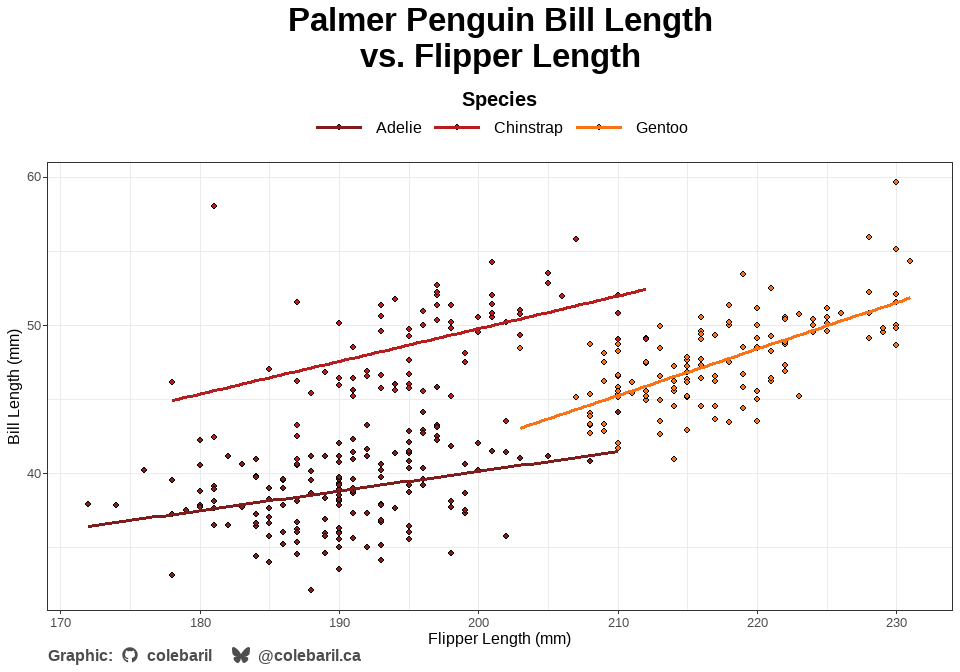
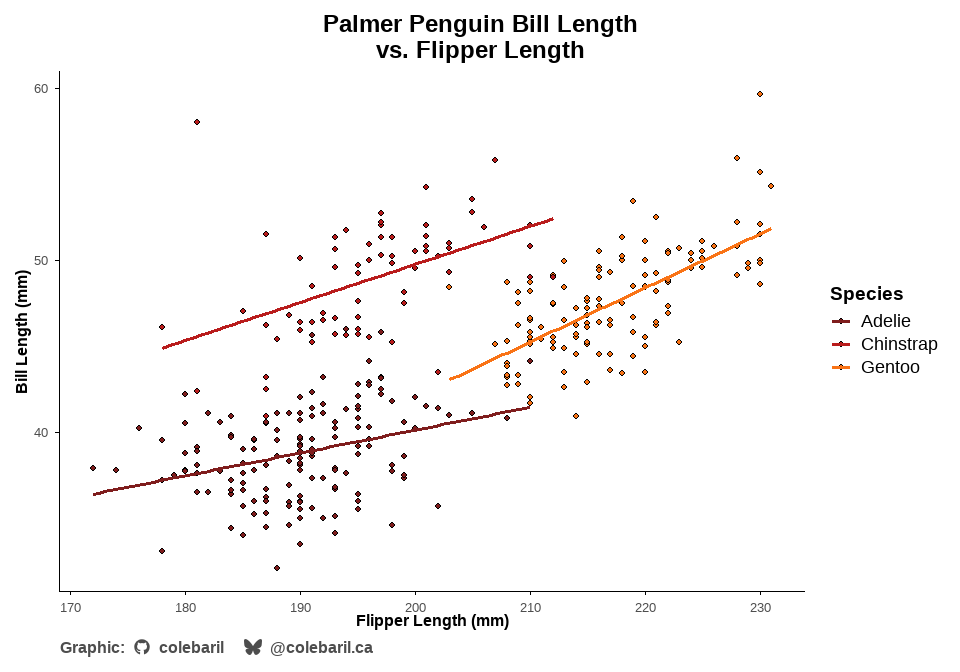
theme_cw

diff --git a/docs/index.html b/docs/index.html
@@ -63,27 +63,37 @@
 <div class="section level3">
 <h3 id="themes-and-palettes">Themes and Palettes<a class="anchor" aria-label="anchor" href="#themes-and-palettes"></a>
 </h3>
-<p>In the following example, <code>theme_parchment()</code> is used to alter thematic elements of the plot and <code>scale_spellbook()</code> is used to apply my custom colour palettes. I also use the <code><a href="reference/add_caption_cwb.html">add_caption_cwb()</a></code> function to automatically insert a caption that is pre-formatted with icons and social media tags.</p>
+<p>In the following example, <code><a href="reference/theme_cole.html">theme_cole()</a></code> is used to alter thematic elements of the plot and <code>scale_spellbook()</code> is used to apply my custom colour palettes. I also use the <code><a href="reference/add_caption_cwb.html">add_caption_cwb()</a></code> function to automatically insert a caption that is pre-formatted with icons and social media tags. You can easily flip to dark mode!</p>
 <div class="sourceCode" id="cb2"><pre class="downlit sourceCode r">
 <code class="sourceCode R"><span><span class="kw"><a href="https://rdrr.io/r/base/library.html" class="external-link">require</a></span><span class="op">(</span><span class="va"><a href="https://github.com/trinker/pacman" class="external-link">pacman</a></span><span class="op">)</span></span>
-<span><span class="fu"><a href="https://rdrr.io/pkg/pacman/man/p_load.html" class="external-link">p_load</a></span><span class="op">(</span><span class="va">cwb</span>, <span class="va">ggplot2</span>, <span class="va">palmerpenguins</span>, <span class="va">extrafont</span><span class="op">)</span></span>
-<span></span>
+<span><span class="fu"><a href="https://rdrr.io/pkg/pacman/man/p_load.html" class="external-link">p_load</a></span><span class="op">(</span><span class="va">cwb</span>, <span class="va">ggplot2</span>, <span class="va">palmerpenguins</span><span class="op">)</span></span>
 <span></span>
 <span><span class="fu"><a href="https://ggplot2.tidyverse.org/reference/ggplot.html" class="external-link">ggplot</a></span><span class="op">(</span><span class="va">penguins</span>, <span class="fu"><a href="https://ggplot2.tidyverse.org/reference/aes.html" class="external-link">aes</a></span><span class="op">(</span><span class="va">flipper_length_mm</span>, <span class="va">bill_length_mm</span>, fill <span class="op">=</span> <span class="va">species</span>, group <span class="op">=</span> <span class="va">species</span><span class="op">)</span><span class="op">)</span> <span class="op">+</span></span>
 <span>  <span class="fu"><a href="https://ggplot2.tidyverse.org/reference/geom_point.html" class="external-link">geom_point</a></span><span class="op">(</span>shape <span class="op">=</span> <span class="fl">21</span><span class="op">)</span> <span class="op">+</span></span>
 <span>  <span class="fu"><a href="https://ggplot2.tidyverse.org/reference/geom_smooth.html" class="external-link">geom_smooth</a></span><span class="op">(</span><span class="fu"><a href="https://ggplot2.tidyverse.org/reference/aes.html" class="external-link">aes</a></span><span class="op">(</span>colour <span class="op">=</span> <span class="va">species</span><span class="op">)</span>, se <span class="op">=</span> <span class="cn">FALSE</span>, method <span class="op">=</span> <span class="st">"lm"</span><span class="op">)</span> <span class="op">+</span></span>
 <span>  <span class="fu"><a href="reference/scale_cwb.html">scale_cwb</a></span><span class="op">(</span>name <span class="op">=</span> <span class="st">"Species"</span>, palette <span class="op">=</span> <span class="st">"arcane_flame"</span>, type <span class="op">=</span> <span class="st">"d"</span>, aesthetics <span class="op">=</span> <span class="st">"fill"</span><span class="op">)</span> <span class="op">+</span></span>
 <span>  <span class="fu"><a href="reference/scale_cwb.html">scale_cwb</a></span><span class="op">(</span>name <span class="op">=</span> <span class="st">"Species"</span>, palette <span class="op">=</span> <span class="st">"arcane_flame"</span>, type <span class="op">=</span> <span class="st">"d"</span>, aesthetics <span class="op">=</span> <span class="st">"colour"</span><span class="op">)</span> <span class="op">+</span></span>
-<span>  <span class="fu">theme_parchment</span><span class="op">(</span><span class="op">)</span> <span class="op">+</span></span>
+<span>  <span class="fu"><a href="reference/theme_cole.html">theme_cole</a></span><span class="op">(</span>show_axis_lines <span class="op">=</span> <span class="fu"><a href="https://rdrr.io/r/base/c.html" class="external-link">c</a></span><span class="op">(</span><span class="st">"bottom"</span>, <span class="st">"left"</span><span class="op">)</span>, remove_grid <span class="op">=</span> <span class="cn">TRUE</span><span class="op">)</span> <span class="op">+</span></span>
 <span>  <span class="fu"><a href="https://ggplot2.tidyverse.org/reference/labs.html" class="external-link">labs</a></span><span class="op">(</span>title <span class="op">=</span> <span class="st">"Palmer Penguin Bill Length \nvs. Flipper Length"</span>, x <span class="op">=</span> <span class="st">"Flipper Length (mm)"</span>, y <span class="op">=</span> <span class="st">"Bill Length (mm)"</span><span class="op">)</span> <span class="op">+</span></span>
 <span>  <span class="fu"><a href="reference/add_caption_cwb.html">add_caption_cwb</a></span><span class="op">(</span>type <span class="op">=</span> <span class="st">"plot"</span><span class="op">)</span> </span></code></pre></div>
 <p><img src="reference/figures/README-example_theme_palette-1.png" alt="" width="100%"></p>
+<div class="sourceCode" id="cb3"><pre class="downlit sourceCode r">
+<code class="sourceCode R"><span></span>
+<span><span class="fu"><a href="https://ggplot2.tidyverse.org/reference/ggplot.html" class="external-link">ggplot</a></span><span class="op">(</span><span class="va">penguins</span>, <span class="fu"><a href="https://ggplot2.tidyverse.org/reference/aes.html" class="external-link">aes</a></span><span class="op">(</span><span class="va">flipper_length_mm</span>, <span class="va">bill_length_mm</span>, fill <span class="op">=</span> <span class="va">species</span>, group <span class="op">=</span> <span class="va">species</span><span class="op">)</span><span class="op">)</span> <span class="op">+</span></span>
+<span>  <span class="fu"><a href="https://ggplot2.tidyverse.org/reference/geom_point.html" class="external-link">geom_point</a></span><span class="op">(</span>shape <span class="op">=</span> <span class="fl">21</span><span class="op">)</span> <span class="op">+</span></span>
+<span>  <span class="fu"><a href="https://ggplot2.tidyverse.org/reference/geom_smooth.html" class="external-link">geom_smooth</a></span><span class="op">(</span><span class="fu"><a href="https://ggplot2.tidyverse.org/reference/aes.html" class="external-link">aes</a></span><span class="op">(</span>colour <span class="op">=</span> <span class="va">species</span><span class="op">)</span>, se <span class="op">=</span> <span class="cn">FALSE</span>, method <span class="op">=</span> <span class="st">"lm"</span><span class="op">)</span> <span class="op">+</span></span>
+<span>  <span class="fu"><a href="reference/scale_cwb.html">scale_cwb</a></span><span class="op">(</span>name <span class="op">=</span> <span class="st">"Species"</span>, palette <span class="op">=</span> <span class="st">"arcane_flame"</span>, type <span class="op">=</span> <span class="st">"d"</span>, aesthetics <span class="op">=</span> <span class="st">"fill"</span><span class="op">)</span> <span class="op">+</span></span>
+<span>  <span class="fu"><a href="reference/scale_cwb.html">scale_cwb</a></span><span class="op">(</span>name <span class="op">=</span> <span class="st">"Species"</span>, palette <span class="op">=</span> <span class="st">"arcane_flame"</span>, type <span class="op">=</span> <span class="st">"d"</span>, aesthetics <span class="op">=</span> <span class="st">"colour"</span><span class="op">)</span> <span class="op">+</span></span>
+<span>  <span class="fu"><a href="reference/theme_cole.html">theme_cole</a></span><span class="op">(</span>show_axis_lines <span class="op">=</span> <span class="fu"><a href="https://rdrr.io/r/base/c.html" class="external-link">c</a></span><span class="op">(</span><span class="st">"bottom"</span>, <span class="st">"left"</span><span class="op">)</span>, remove_grid <span class="op">=</span> <span class="cn">TRUE</span>, dark <span class="op">=</span> <span class="cn">TRUE</span><span class="op">)</span> <span class="op">+</span></span>
+<span>  <span class="fu"><a href="https://ggplot2.tidyverse.org/reference/labs.html" class="external-link">labs</a></span><span class="op">(</span>title <span class="op">=</span> <span class="st">"Palmer Penguin Bill Length \nvs. Flipper Length"</span>, x <span class="op">=</span> <span class="st">"Flipper Length (mm)"</span>, y <span class="op">=</span> <span class="st">"Bill Length (mm)"</span><span class="op">)</span> <span class="op">+</span></span>
+<span>  <span class="fu"><a href="reference/add_caption_cwb.html">add_caption_cwb</a></span><span class="op">(</span>type <span class="op">=</span> <span class="st">"plot"</span><span class="op">)</span> </span></code></pre></div>
+<p><img src="reference/figures/README-example_theme_palette-2.png" alt="" width="100%"></p>
 </div>
 <div class="section level3">
 <h3 id="data-cleaning">Data Cleaning<a class="anchor" aria-label="anchor" href="#data-cleaning"></a>
 </h3>
 <p>In this example, <code><a href="reference/clean_data.html">clean_data()</a></code> is used to standardize column names, trim white space, convert empty columns to true <code>NA</code>s, and flags outliers for any numeric columns using robust means.</p>
-<div class="sourceCode" id="cb3"><pre class="downlit sourceCode r">
+<div class="sourceCode" id="cb4"><pre class="downlit sourceCode r">
 <code class="sourceCode R"><span><span class="va">df</span> <span class="op">&lt;-</span> <span class="fu">tibble</span><span class="fu">::</span><span class="fu"><a href="https://tibble.tidyverse.org/reference/tibble.html" class="external-link">tibble</a></span><span class="op">(</span></span>
 <span>  <span class="st">"First Name"</span> <span class="op">=</span> <span class="fu"><a href="https://rdrr.io/r/base/c.html" class="external-link">c</a></span><span class="op">(</span><span class="st">" Alice "</span>, <span class="st">"Bob"</span>, <span class="st">""</span>, <span class="st">"CHARLIE"</span>, <span class="st">"dave"</span>, <span class="st">"Eve"</span>, <span class="cn">NA</span>, <span class="st">"Bob"</span>, <span class="st">"Bob"</span><span class="op">)</span>,</span>
 <span>  <span class="st">"Last Name"</span> <span class="op">=</span> <span class="fu"><a href="https://rdrr.io/r/base/c.html" class="external-link">c</a></span><span class="op">(</span><span class="st">"Smith"</span>, <span class="st">"Jones"</span>, <span class="st">"O'Neil"</span>, <span class="st">"Brown"</span>, <span class="st">"Miller"</span>, <span class="st">"O'Brien"</span>, <span class="st">""</span>, <span class="st">"Jones"</span>, <span class="st">"Jones"</span><span class="op">)</span>,</span>
@@ -126,13 +136,12 @@
 <h3 id="citing-packages">Citing Packages<a class="anchor" aria-label="anchor" href="#citing-packages"></a>
 </h3>
 <p>Using the <code><a href="reference/cite_packages.html">cwb::cite_packages()</a></code> function, you can easily cite all packages used in your script or file, choosing between R Markdown output or plain text options.</p>
-<div class="sourceCode" id="cb4"><pre class="downlit sourceCode r">
+<div class="sourceCode" id="cb5"><pre class="downlit sourceCode r">
 <code class="sourceCode R"><span><span class="fu"><a href="reference/cite_packages.html">cite_packages</a></span><span class="op">(</span>format <span class="op">=</span> <span class="st">"rmd"</span><span class="op">)</span></span></code></pre></div>
 <ol style="list-style-type: decimal">
-<li><p>Chang W (2025). <em>extrafont: Tools for Using Fonts</em>. <a href="doi:10.32614/CRAN.package.extrafont" class="uri">doi:10.32614/CRAN.package.extrafont</a> <a href="https://doi.org/10.32614/CRAN.package.extrafont" class="external-link uri">https://doi.org/10.32614/CRAN.package.extrafont</a>, R package version 0.20, <a href="https://CRAN.R-project.org/package=extrafont" class="external-link uri">https://CRAN.R-project.org/package=extrafont</a>.</p></li>
 <li><p>Horst AM, Hill AP, Gorman KB (2020). <em>palmerpenguins: Palmer Archipelago (Antarctica) penguin data</em>. <a href="doi:10.5281/zenodo.3960218" class="uri">doi:10.5281/zenodo.3960218</a> <a href="https://doi.org/10.5281/zenodo.3960218" class="external-link uri">https://doi.org/10.5281/zenodo.3960218</a>, R package version 0.1.0, <a href="https://allisonhorst.github.io/palmerpenguins/" class="external-link uri">https://allisonhorst.github.io/palmerpenguins/</a>.</p></li>
 <li><p>Wickham H (2016). <em>ggplot2: Elegant Graphics for Data Analysis</em>. Springer-Verlag New York. ISBN 978-3-319-24277-4, <a href="https://ggplot2.tidyverse.org" class="external-link uri">https://ggplot2.tidyverse.org</a>.</p></li>
-<li><p>Baril C (2026). <em>cwb: Cole’s personal collection of R functions, themes, and palettes.</em>. R package version 0.0.1, commit ffecb414d07b613a3508aa2a80eeea1054799859, <a href="https://github.com/colebaril/cwb" class="external-link uri">https://github.com/colebaril/cwb</a>.</p></li>
+<li><p>Baril C (2026). <em>cwb: Cole’s personal collection of R functions, themes, and palettes</em>. R package version 0.0.1, commit 01de73b9da19792d6c04cfaf4bb0fb5e790ab784, <a href="https://github.com/colebaril/cwb" class="external-link uri">https://github.com/colebaril/cwb</a>.</p></li>
 <li><p>Rinker TW, Kurkiewicz D (2018). <em>pacman: Package Management for R</em>. version 0.5.0, <a href="http://github.com/trinker/pacman" class="external-link uri">http://github.com/trinker/pacman</a>.</p></li>
 </ol>
 </div>

diff --git a/docs/reference/theme_cole.html b/docs/reference/theme_cole.html
@@ -89,22 +89,27 @@ evoke the look of old parchment and handwritten ink. Works with <code>ggplot2</c
     <div class="sourceCode"><pre class="sourceCode r"><code><span class="r-in"><span><span class="kw"><a href="https://rdrr.io/r/base/library.html" class="external-link">library</a></span><span class="op">(</span><span class="va"><a href="https://ggplot2.tidyverse.org" class="external-link">ggplot2</a></span><span class="op">)</span></span></span>
 <span class="r-in"><span><span class="kw"><a href="https://rdrr.io/r/base/library.html" class="external-link">library</a></span><span class="op">(</span><span class="va">cwb</span><span class="op">)</span></span></span>
 <span class="r-in"><span><span class="kw"><a href="https://rdrr.io/r/base/library.html" class="external-link">library</a></span><span class="op">(</span><span class="va"><a href="https://allisonhorst.github.io/palmerpenguins/" class="external-link">palmerpenguins</a></span><span class="op">)</span></span></span>
+<span class="r-in"><span></span></span>
 <span class="r-in"><span><span class="fu"><a href="https://ggplot2.tidyverse.org/reference/ggplot.html" class="external-link">ggplot</a></span><span class="op">(</span><span class="va">penguins</span>, <span class="fu"><a href="https://ggplot2.tidyverse.org/reference/aes.html" class="external-link">aes</a></span><span class="op">(</span><span class="va">flipper_length_mm</span>, <span class="va">bill_length_mm</span>, fill <span class="op">=</span> <span class="va">species</span>, group <span class="op">=</span> <span class="va">species</span><span class="op">)</span><span class="op">)</span> <span class="op">+</span></span></span>
 <span class="r-in"><span>  <span class="fu"><a href="https://ggplot2.tidyverse.org/reference/geom_point.html" class="external-link">geom_point</a></span><span class="op">(</span>shape <span class="op">=</span> <span class="fl">21</span><span class="op">)</span> <span class="op">+</span></span></span>
 <span class="r-in"><span>  <span class="fu"><a href="https://ggplot2.tidyverse.org/reference/labs.html" class="external-link">labs</a></span><span class="op">(</span>title <span class="op">=</span> <span class="st">"Flipper Length vs. Bill Length"</span>,</span></span>
-<span class="r-in"><span>       subtitle <span class="op">=</span> <span class="st">"test test test"</span><span class="op">)</span> <span class="op">+</span></span></span>
-<span class="r-in"><span>  <span class="fu">theme_cole</span><span class="op">(</span>axes_only <span class="op">=</span> <span class="cn">TRUE</span>, remove_grid <span class="op">=</span> <span class="cn">TRUE</span>, dark <span class="op">=</span> <span class="cn">TRUE</span><span class="op">)</span> <span class="op">+</span></span></span>
+<span class="r-in"><span>       subtitle <span class="op">=</span> <span class="st">"Lorem ipsum"</span><span class="op">)</span> <span class="op">+</span></span></span>
+<span class="r-in"><span>  <span class="fu">theme_cole</span><span class="op">(</span>show_axis_lines <span class="op">=</span> <span class="fu"><a href="https://rdrr.io/r/base/c.html" class="external-link">c</a></span><span class="op">(</span><span class="st">"bottom"</span>, <span class="st">"left"</span><span class="op">)</span>, remove_grid <span class="op">=</span> <span class="cn">TRUE</span>, dark <span class="op">=</span> <span class="cn">TRUE</span><span class="op">)</span> <span class="op">+</span></span></span>
 <span class="r-in"><span>  <span class="fu"><a href="add_caption_cwb.html">add_caption_cwb</a></span><span class="op">(</span><span class="op">)</span> </span></span>
-<span class="r-err co"><span class="r-pr">#&gt;</span> <span class="error">Error in theme_cole(axes_only = TRUE, remove_grid = TRUE, dark = TRUE):</span> unused argument (axes_only = TRUE)</span>
+<span class="r-wrn co"><span class="r-pr">#&gt;</span> <span class="warning">Warning: </span>Removed 2 rows containing missing values or values outside the scale range</span>
+<span class="r-wrn co"><span class="r-pr">#&gt;</span> (`geom_point()`).</span>
+<span class="r-plt img"><img src="theme_cole-1.png" alt="" width="700" height="433"></span>
 <span class="r-in"><span>  </span></span>
 <span class="r-in"><span>  </span></span>
 <span class="r-in"><span><span class="fu"><a href="https://ggplot2.tidyverse.org/reference/ggplot.html" class="external-link">ggplot</a></span><span class="op">(</span><span class="va">penguins</span>, <span class="fu"><a href="https://ggplot2.tidyverse.org/reference/aes.html" class="external-link">aes</a></span><span class="op">(</span><span class="va">flipper_length_mm</span>, <span class="va">bill_length_mm</span>, fill <span class="op">=</span> <span class="va">species</span>, group <span class="op">=</span> <span class="va">species</span><span class="op">)</span><span class="op">)</span> <span class="op">+</span></span></span>
 <span class="r-in"><span>  <span class="fu"><a href="https://ggplot2.tidyverse.org/reference/geom_point.html" class="external-link">geom_point</a></span><span class="op">(</span>shape <span class="op">=</span> <span class="fl">21</span><span class="op">)</span> <span class="op">+</span></span></span>
 <span class="r-in"><span>  <span class="fu"><a href="https://ggplot2.tidyverse.org/reference/labs.html" class="external-link">labs</a></span><span class="op">(</span>title <span class="op">=</span> <span class="st">"Flipper Length vs. Bill Length"</span>,</span></span>
-<span class="r-in"><span>       subtitle <span class="op">=</span> <span class="st">"test test test"</span><span class="op">)</span> <span class="op">+</span></span></span>
-<span class="r-in"><span>  <span class="fu">theme_cole</span><span class="op">(</span>axes_only <span class="op">=</span> <span class="cn">TRUE</span>, remove_grid <span class="op">=</span> <span class="cn">FALSE</span><span class="op">)</span> <span class="op">+</span></span></span>
+<span class="r-in"><span>       subtitle <span class="op">=</span> <span class="st">"Lorem ipsum"</span><span class="op">)</span> <span class="op">+</span></span></span>
+<span class="r-in"><span>  <span class="fu">theme_cole</span><span class="op">(</span>show_axis_lines <span class="op">=</span> <span class="fu"><a href="https://rdrr.io/r/base/c.html" class="external-link">c</a></span><span class="op">(</span><span class="st">"bottom"</span>, <span class="st">"left"</span><span class="op">)</span>, remove_grid <span class="op">=</span> <span class="cn">FALSE</span><span class="op">)</span> <span class="op">+</span></span></span>
 <span class="r-in"><span>  <span class="fu"><a href="add_caption_cwb.html">add_caption_cwb</a></span><span class="op">(</span><span class="op">)</span> </span></span>
-<span class="r-err co"><span class="r-pr">#&gt;</span> <span class="error">Error in theme_cole(axes_only = TRUE, remove_grid = FALSE):</span> unused argument (axes_only = TRUE)</span>
+<span class="r-wrn co"><span class="r-pr">#&gt;</span> <span class="warning">Warning: </span>Removed 2 rows containing missing values or values outside the scale range</span>
+<span class="r-wrn co"><span class="r-pr">#&gt;</span> (`geom_point()`).</span>
+<span class="r-plt img"><img src="theme_cole-2.png" alt="" width="700" height="433"></span>
 <span class="r-in"><span></span></span>
 </code></pre></div>
     </div>

diff --git a/docs/index.md b/docs/index.md
@@ -18,29 +18,42 @@ devtools::install_github("colebaril/cwb")
 
 ### Themes and Palettes
 
-In the following example, `theme_parchment()` is used to alter thematic
-elements of the plot and `scale_spellbook()` is used to apply my custom
-colour palettes. I also use the
+In the following example, [`theme_cole()`](reference/theme_cole.md) is
+used to alter thematic elements of the plot and `scale_spellbook()` is
+used to apply my custom colour palettes. I also use the
 [`add_caption_cwb()`](reference/add_caption_cwb.md) function to
 automatically insert a caption that is pre-formatted with icons and
-social media tags.
+social media tags. You can easily flip to dark mode!
 
 ``` r
 require(pacman)
-p_load(cwb, ggplot2, palmerpenguins, extrafont)
-
+p_load(cwb, ggplot2, palmerpenguins)
 
 ggplot(penguins, aes(flipper_length_mm, bill_length_mm, fill = species, group = species)) +
   geom_point(shape = 21) +
   geom_smooth(aes(colour = species), se = FALSE, method = "lm") +
   scale_cwb(name = "Species", palette = "arcane_flame", type = "d", aesthetics = "fill") +
   scale_cwb(name = "Species", palette = "arcane_flame", type = "d", aesthetics = "colour") +
-  theme_parchment() +
+  theme_cole(show_axis_lines = c("bottom", "left"), remove_grid = TRUE) +
   labs(title = "Palmer Penguin Bill Length \nvs. Flipper Length", x = "Flipper Length (mm)", y = "Bill Length (mm)") +
   add_caption_cwb(type = "plot") 
 ```
 
 ![](reference/figures/README-example_theme_palette-1.png)
+
+``` r
+
+ggplot(penguins, aes(flipper_length_mm, bill_length_mm, fill = species, group = species)) +
+  geom_point(shape = 21) +
+  geom_smooth(aes(colour = species), se = FALSE, method = "lm") +
+  scale_cwb(name = "Species", palette = "arcane_flame", type = "d", aesthetics = "fill") +
+  scale_cwb(name = "Species", palette = "arcane_flame", type = "d", aesthetics = "colour") +
+  theme_cole(show_axis_lines = c("bottom", "left"), remove_grid = TRUE, dark = TRUE) +
+  labs(title = "Palmer Penguin Bill Length \nvs. Flipper Length", x = "Flipper Length (mm)", y = "Bill Length (mm)") +
+  add_caption_cwb(type = "plot") 
+```
+
+![](reference/figures/README-example_theme_palette-2.png)
 
 ### Data Cleaning
 
@@ -99,24 +112,19 @@ between R Markdown output or plain text options.
 cite_packages(format = "rmd")
 ```
 
-1.  Chang W (2025). *extrafont: Tools for Using Fonts*.
-    <doi:10.32614/CRAN.package.extrafont>
-    <https://doi.org/10.32614/CRAN.package.extrafont>, R package version
-    0.20, <https://CRAN.R-project.org/package=extrafont>.
-
-2.  Horst AM, Hill AP, Gorman KB (2020). *palmerpenguins: Palmer
+1.  Horst AM, Hill AP, Gorman KB (2020). *palmerpenguins: Palmer
     Archipelago (Antarctica) penguin data*. <doi:10.5281/zenodo.3960218>
     <https://doi.org/10.5281/zenodo.3960218>, R package version 0.1.0,
     <https://allisonhorst.github.io/palmerpenguins/>.
 
-3.  Wickham H (2016). *ggplot2: Elegant Graphics for Data Analysis*.
+2.  Wickham H (2016). *ggplot2: Elegant Graphics for Data Analysis*.
     Springer-Verlag New York. ISBN 978-3-319-24277-4,
     <https://ggplot2.tidyverse.org>.
 
-4.  Baril C (2026). *cwb: Cole’s personal collection of R functions,
-    themes, and palettes.*. R package version 0.0.1, commit
-    ffecb414d07b613a3508aa2a80eeea1054799859,
+3.  Baril C (2026). *cwb: Cole’s personal collection of R functions,
+    themes, and palettes*. R package version 0.0.1, commit
+    01de73b9da19792d6c04cfaf4bb0fb5e790ab784,
     <https://github.com/colebaril/cwb>.
 
-5.  Rinker TW, Kurkiewicz D (2018). *pacman: Package Management for R*.
+4.  Rinker TW, Kurkiewicz D (2018). *pacman: Package Management for R*.
     version 0.5.0, <http://github.com/trinker/pacman>.

diff --git a/README.md b/README.md
@@ -30,28 +30,41 @@ devtools::install_github("colebaril/cwb")
 
 ### Themes and Palettes
 
-In the following example, `theme_parchment()` is used to alter thematic
+In the following example, `theme_cole()` is used to alter thematic
 elements of the plot and `scale_spellbook()` is used to apply my custom
 colour palettes. I also use the `add_caption_cwb()` function to
 automatically insert a caption that is pre-formatted with icons and
-social media tags.
+social media tags. You can easily flip to dark mode!
 
 ``` r
 require(pacman)
-p_load(cwb, ggplot2, palmerpenguins, extrafont)
-
+p_load(cwb, ggplot2, palmerpenguins)
 
 ggplot(penguins, aes(flipper_length_mm, bill_length_mm, fill = species, group = species)) +
   geom_point(shape = 21) +
   geom_smooth(aes(colour = species), se = FALSE, method = "lm") +
   scale_cwb(name = "Species", palette = "arcane_flame", type = "d", aesthetics = "fill") +
   scale_cwb(name = "Species", palette = "arcane_flame", type = "d", aesthetics = "colour") +
-  theme_parchment() +
+  theme_cole(show_axis_lines = c("bottom", "left"), remove_grid = TRUE) +
   labs(title = "Palmer Penguin Bill Length \nvs. Flipper Length", x = "Flipper Length (mm)", y = "Bill Length (mm)") +
   add_caption_cwb(type = "plot") 
 ```
 
 <img src="man/figures/README-example_theme_palette-1.png" alt="" width="100%" />
+
+``` r
+
+ggplot(penguins, aes(flipper_length_mm, bill_length_mm, fill = species, group = species)) +
+  geom_point(shape = 21) +
+  geom_smooth(aes(colour = species), se = FALSE, method = "lm") +
+  scale_cwb(name = "Species", palette = "arcane_flame", type = "d", aesthetics = "fill") +
+  scale_cwb(name = "Species", palette = "arcane_flame", type = "d", aesthetics = "colour") +
+  theme_cole(show_axis_lines = c("bottom", "left"), remove_grid = TRUE, dark = TRUE) +
+  labs(title = "Palmer Penguin Bill Length \nvs. Flipper Length", x = "Flipper Length (mm)", y = "Bill Length (mm)") +
+  add_caption_cwb(type = "plot") 
+```
+
+<img src="man/figures/README-example_theme_palette-2.png" alt="" width="100%" />
 
 ### Data Cleaning
 
@@ -109,24 +122,19 @@ or plain text options.
 cite_packages(format = "rmd")
 ```
 
-1.  Chang W (2025). *extrafont: Tools for Using Fonts*.
-    <doi:10.32614/CRAN.package.extrafont>
-    <https://doi.org/10.32614/CRAN.package.extrafont>, R package version
-    0.20, <https://CRAN.R-project.org/package=extrafont>.
-
-2.  Horst AM, Hill AP, Gorman KB (2020). *palmerpenguins: Palmer
+1.  Horst AM, Hill AP, Gorman KB (2020). *palmerpenguins: Palmer
     Archipelago (Antarctica) penguin data*. <doi:10.5281/zenodo.3960218>
     <https://doi.org/10.5281/zenodo.3960218>, R package version 0.1.0,
     <https://allisonhorst.github.io/palmerpenguins/>.
 
-3.  Wickham H (2016). *ggplot2: Elegant Graphics for Data Analysis*.
+2.  Wickham H (2016). *ggplot2: Elegant Graphics for Data Analysis*.
     Springer-Verlag New York. ISBN 978-3-319-24277-4,
     <https://ggplot2.tidyverse.org>.
 
-4.  Baril C (2026). *cwb: Cole’s personal collection of R functions,
-    themes, and palettes.*. R package version 0.0.1, commit
-    ffecb414d07b613a3508aa2a80eeea1054799859,
+3.  Baril C (2026). *cwb: Cole’s personal collection of R functions,
+    themes, and palettes*. R package version 0.0.1, commit
+    01de73b9da19792d6c04cfaf4bb0fb5e790ab784,
     <https://github.com/colebaril/cwb>.
 
-5.  Rinker TW, Kurkiewicz D (2018). *pacman: Package Management for R*.
+4.  Rinker TW, Kurkiewicz D (2018). *pacman: Package Management for R*.
     version 0.5.0, <http://github.com/trinker/pacman>.

diff --git a/docs/reference/theme_cole.md b/docs/reference/theme_cole.md
@@ -54,20 +54,25 @@ evoke the look of old parchment and handwritten ink. Works with
 library(ggplot2)
 library(cwb)
 library(palmerpenguins)
+
 ggplot(penguins, aes(flipper_length_mm, bill_length_mm, fill = species, group = species)) +
   geom_point(shape = 21) +
   labs(title = "Flipper Length vs. Bill Length",
-       subtitle = "test test test") +
-  theme_cole(axes_only = TRUE, remove_grid = TRUE, dark = TRUE) +
+       subtitle = "Lorem ipsum") +
+  theme_cole(show_axis_lines = c("bottom", "left"), remove_grid = TRUE, dark = TRUE) +
   add_caption_cwb() 
-#> Error in theme_cole(axes_only = TRUE, remove_grid = TRUE, dark = TRUE): unused argument (axes_only = TRUE)
+#> Warning: Removed 2 rows containing missing values or values outside the scale range
+#> (`geom_point()`).
+
   
   
 ggplot(penguins, aes(flipper_length_mm, bill_length_mm, fill = species, group = species)) +
   geom_point(shape = 21) +
   labs(title = "Flipper Length vs. Bill Length",
-       subtitle = "test test test") +
-  theme_cole(axes_only = TRUE, remove_grid = FALSE) +
+       subtitle = "Lorem ipsum") +
+  theme_cole(show_axis_lines = c("bottom", "left"), remove_grid = FALSE) +
   add_caption_cwb() 
-#> Error in theme_cole(axes_only = TRUE, remove_grid = FALSE): unused argument (axes_only = TRUE)
+#> Warning: Removed 2 rows containing missing values or values outside the scale range
+#> (`geom_point()`).
+
 ```
